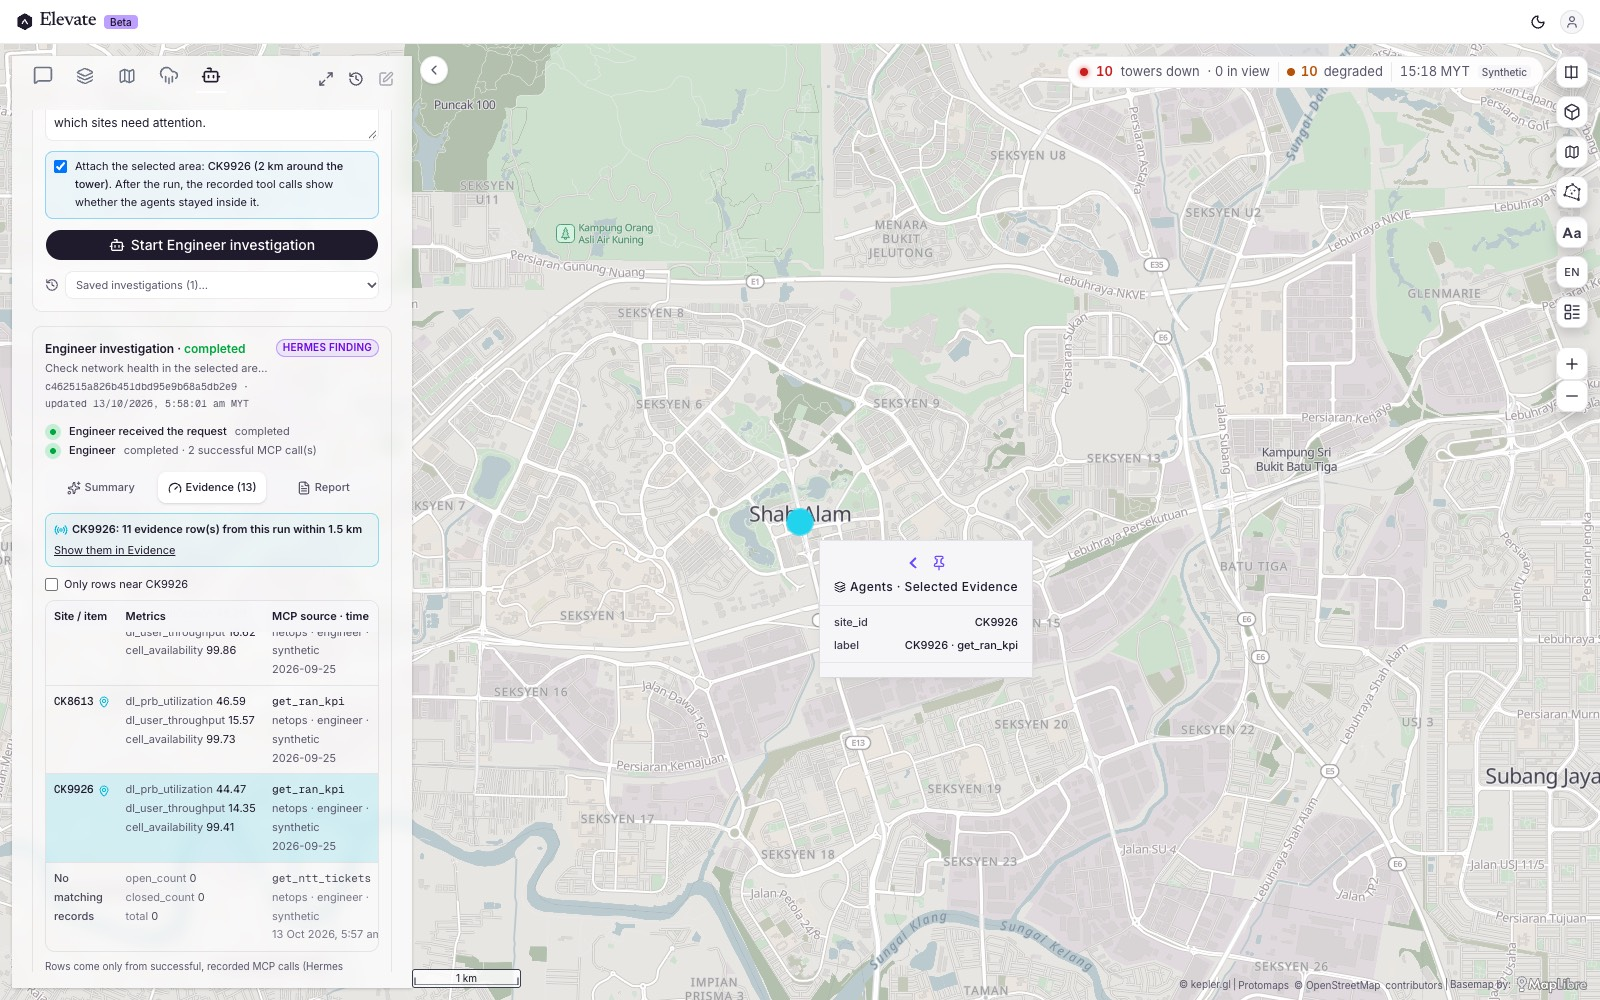
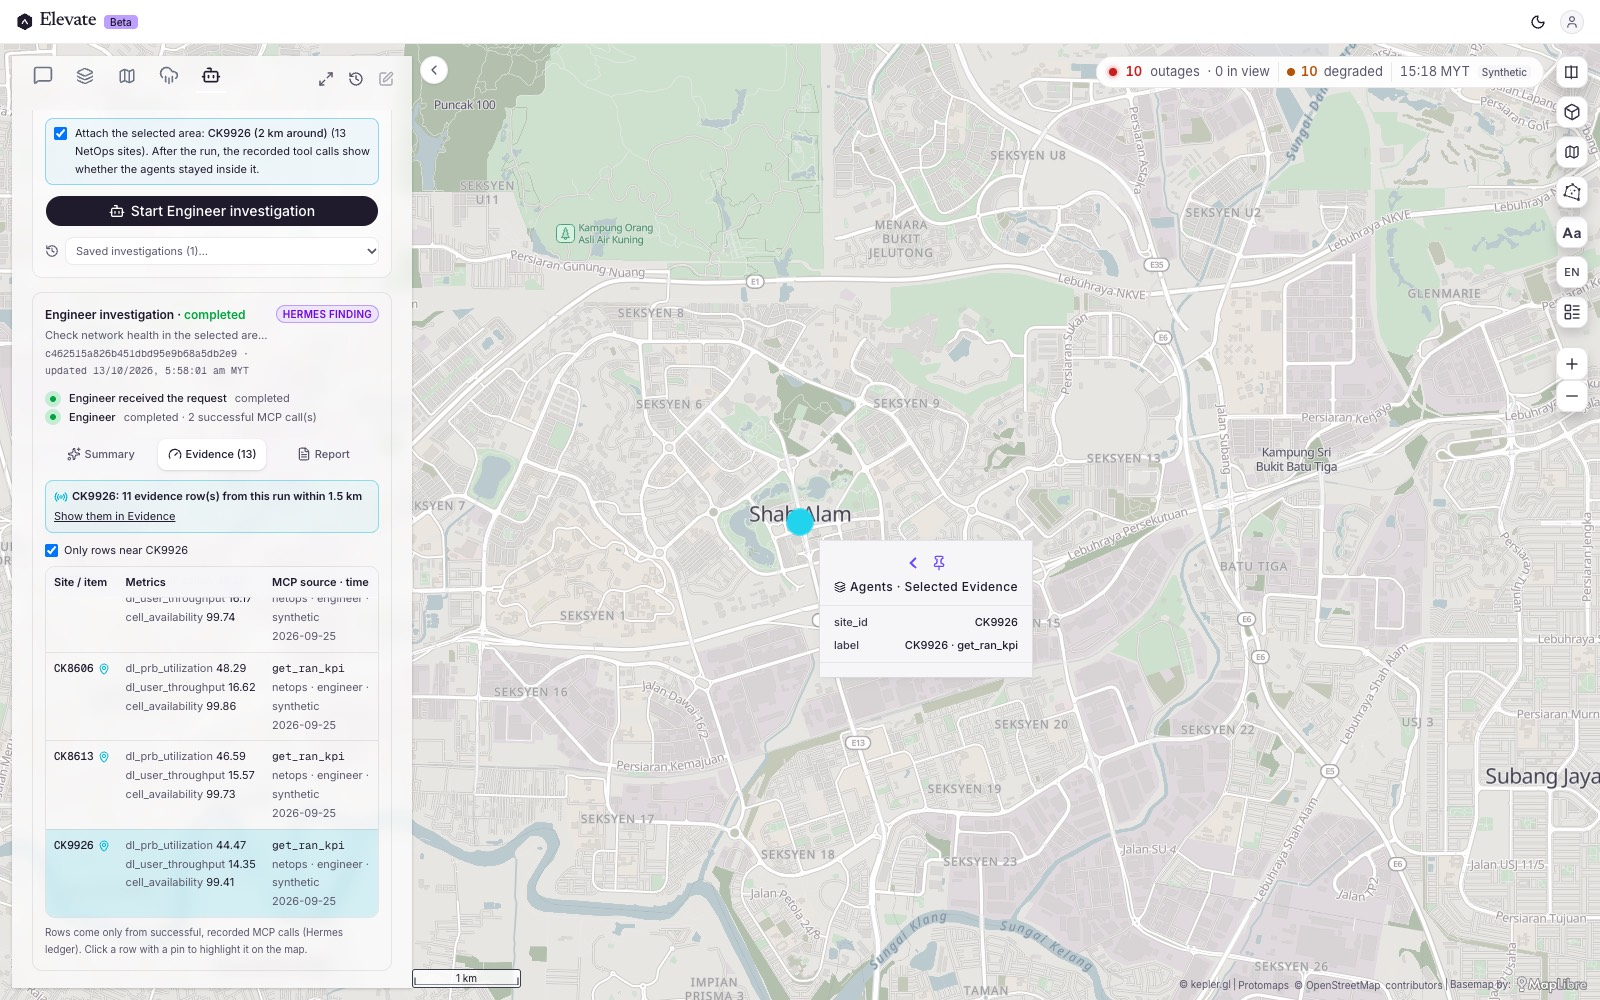
fix(order5.5): strict area-scope check and empty evidence filter
- A radius search now counts as inside the selected area only when its whole circle
  lies inside it (circle: centre distance + radius <= area radius; rectangle/polygon:
  24 sampled edge points inside the shape). Searches centred inside but reaching past
  the area are reported as "reaching beyond", so the verified Shah Alam run is now
  "partly respected" (1 strictly inside, 1 reaching beyond) instead of "respected".
- Reopened rectangle investigations keep their exact shape; reopened polygons (bbox
  only) cannot prove a radius search is contained.
- The Evidence tab no longer filters to "near this tower" when no rows are near it,
  which had hidden every row after a tower click.
- Docs: strict scope rules, corrected results, MacBook runbook (NetOps without
  --search on 8010, Hermes env), refreshed screenshots incl. Orders 6/7 and fallbacks.

Changed region(s): [[0.0312, 0.093, 0.25, 0.992], [0.6562, 0.062, 0.75, 0.093]]

diff --git a/frontend/src/lib/hermes/workspace.ts b/frontend/src/lib/hermes/workspace.ts
@@ -91,13 +91,15 @@ export function withAreaContext(prompt: string, area: MapArea | null, siteIds: s
 }
 
 /** The area a saved investigation was asked about, read back from its prompt (null when it had none). */
-export function areaFromPrompt(prompt: string): (Omit<MapArea, "ring"> & { siteIds: string[] }) | null {
+export function areaFromPrompt(prompt: string): (MapArea & { siteIds: string[] }) | null {
   const at = prompt.indexOf(AREA_MARKER);
   if (at < 0) return null;
   const line = prompt.slice(at).split("\n")[1];
   try {
     const c = JSON.parse(line) as { kind: MapArea["kind"]; label: string; center: LatLng; radius_km: number; bbox: MapArea["bbox"]; site_ids: string[] };
-    return { kind: c.kind, label: c.label, center: c.center, radiusKm: c.radius_km, bbox: c.bbox, siteIds: c.site_ids ?? [] };
+    const [w, so, e, n] = c.bbox;
+    const ring = c.kind === "rectangle" ? [[w, so], [e, so], [e, n], [w, n], [w, so]] : undefined;
+    return { kind: c.kind, label: c.label, center: c.center, radiusKm: c.radius_km, bbox: c.bbox, siteIds: c.site_ids ?? [], ...(ring ? { ring } : {}) };
   } catch {
     return null;
   }
@@ -119,7 +121,8 @@ export type JobLike = {
   geojson?: { features: { geometry: { coordinates: [number, number] }; properties: Record<string, unknown> }[] } | null;
   warnings?: string[]; feasibility?: unknown;
 };
-export type CallScope = "in_area" | "outside" | "unscoped";
+/** in_area: provably inside; beyond: centred inside but the search circle reaches past the area; outside; unscoped: no location. */
+export type CallScope = "in_area" | "beyond" | "outside" | "unscoped";
 
 const num = (v: unknown) => (typeof v === "number" ? v : typeof v === "string" && v.trim() !== "" ? Number(v) : NaN);
 function idList(v: unknown): string[] {
@@ -136,15 +139,27 @@ export function callScope(call: ToolCall, area: Pick<MapArea, "center" | "radius
   const lat = num(a.lat ?? a.latitude ?? a.current_lat), lng = num(a.lng ?? a.lon ?? a.longitude ?? a.current_long);
   if (Number.isFinite(lat) && Number.isFinite(lng)) {
     const radius = num(a.radius_km ?? a.radius);
-    const inside = area.ring ? inRing(area.ring, lat, lng) : haversineKm(area.center, { lat, lng }) <= area.radiusKm;
-    return inside && (!Number.isFinite(radius) || radius <= area.radiusKm + 1) ? "in_area" : "outside";
+    const r = Number.isFinite(radius) && radius > 0 ? radius : 0;
+    if (area.ring) {
+      if (!inRing(area.ring, lat, lng)) return "outside";
+      // the whole search circle must lie in the shape: sample its edge (24 points)
+      const dLat = r / 111, dLng = r / (111 * Math.cos((lat * Math.PI) / 180));
+      const edgeInside = Array.from({ length: 24 }, (_, i) => (2 * Math.PI * i) / 24)
+        .every((t) => inRing(area.ring!, lat + dLat * Math.sin(t), lng + dLng * Math.cos(t)));
+      return edgeInside ? "in_area" : "beyond";
+    }
+    const d = haversineKm(area.center, { lat, lng });
+    if (d > area.radiusKm) return "outside";
+    // a polygon known only by its bounding box cannot prove a radius search stays inside it
+    if (area.kind === "polygon" && r > 0) return "beyond";
+    return d + r <= area.radiusKm + 1e-9 ? "in_area" : "beyond";
   }
   return "unscoped";
 }
 
 export type Adherence = {
   verdict: "respected" | "partly respected" | "not area-scoped" | "no tool calls";
-  inArea: number; outside: number; unscoped: number;
+  inArea: number; beyond: number; outside: number; unscoped: number;
   calls: { agent: string; tool: string; scope: CallScope }[];
 };
 
@@ -154,9 +169,9 @@ export function areaAdherence(job: JobLike, area: Pick<MapArea, "center" | "radi
   const calls = job.tasks.flatMap((t) => (t.tool_calls ?? []).filter((c) => c.ok === true && c.tool !== "delegate_specialist")
     .map((c) => ({ agent: t.agent_id, tool: c.tool, scope: callScope(c, area, ids) })));
   const count = (s: CallScope) => calls.filter((c) => c.scope === s).length;
-  const inArea = count("in_area"), outside = count("outside"), unscoped = count("unscoped");
+  const inArea = count("in_area"), beyond = count("beyond"), outside = count("outside"), unscoped = count("unscoped");
   const verdict = !calls.length ? "no tool calls" : inArea === calls.length ? "respected" : inArea > 0 ? "partly respected" : "not area-scoped";
-  return { verdict, inArea, outside, unscoped, calls };
+  return { verdict, inArea, beyond, outside, unscoped, calls };
 }
 
 // ---------------------------------------------------------------- evidence rows

diff --git a/frontend/src/components/map/panels/agents-workspace.tsx b/frontend/src/components/map/panels/agents-workspace.tsx
@@ -191,7 +191,7 @@ export function AdherenceBanner({ adherence, areaLabel, pending }: { adherence: 
   if (!adherence) return null;
   const text = {
     respected: `Every successful tool call stayed inside “${areaLabel}”.`,
-    "partly respected": `Only ${adherence.inArea} of ${adherence.calls.length} tool calls stayed inside “${areaLabel}”; the rest queried ${adherence.unscoped ? "the wider network" : "outside the area"}. Findings are not limited to the area.`,
+    "partly respected": `${adherence.inArea} of ${adherence.calls.length} tool calls stayed strictly inside “${areaLabel}”.${adherence.beyond ? ` ${adherence.beyond} radius search(es) were centred inside but reached beyond the area.` : ""}${adherence.outside ? ` ${adherence.outside} queried outside it.` : ""}${adherence.unscoped ? ` ${adherence.unscoped} used no location (wider network).` : ""} Findings are not strictly limited to the area.`,
     "not area-scoped": `The agents' tool calls did not filter by “${areaLabel}”. Do not read the findings as an analysis of this area.`,
     "no tool calls": `No successful tool calls were recorded, so nothing about “${areaLabel}” was analysed.`,
   }[adherence.verdict];
@@ -212,7 +212,7 @@ export function InvestigationResults({ job, digest, rows, adherence, areaLabel, 
 }) {
   const [tab, setTab] = useState<Tab>("summary");
   const [onlyFocus, setOnlyFocus] = useState(true);
-  const shown = focusRows && onlyFocus ? focusRows : rows;
+  const shown = focusRows?.length && onlyFocus ? focusRows : rows; // an empty filter would hide every row
   const tabs: { id: Tab; label: string; icon: typeof FileText }[] = [
     { id: "summary", label: "Summary", icon: Sparkles }, { id: "evidence", label: `Evidence (${rows.length})`, icon: Gauge }, { id: "report", label: "Report", icon: FileText },
   ];
@@ -263,7 +263,7 @@ export function InvestigationResults({ job, digest, rows, adherence, areaLabel, 
 
       {tab === "evidence" ? (
         <div className="space-y-1.5">
-          {focusRows ? (
+          {focusRows?.length ? (
             <label className="flex items-center gap-1.5 text-[11px]"><input type="checkbox" checked={onlyFocus} onChange={(e) => setOnlyFocus(e.target.checked)} />Only rows near {focusName}</label>
           ) : null}
           {shown.length ? (
@@ -308,7 +308,7 @@ export function InvestigationResults({ job, digest, rows, adherence, areaLabel, 
               <li>Agents: {digest.agents.map((a) => AGENT_META[a as HermesAgentId]?.label ?? a).join(", ")} (local Hermes profiles, persistent memory).</li>
               <li>Tools that returned data: {digest.tools.join(", ") || "none"}.</li>
               <li>Sources: {sources.map((s) => `${s.service}/${s.tool}${s.synthetic ? " (synthetic)" : ""}`).join("; ") || "none"}.</li>
-              <li>Area: {areaLabel ? `${areaLabel}; scope ${adherence?.verdict ?? "—"} (${adherence?.inArea ?? 0} in area, ${adherence?.outside ?? 0} outside, ${adherence?.unscoped ?? 0} unscoped calls).` : "none attached."}</li>
+              <li>Area: {areaLabel ? `${areaLabel}; scope ${adherence?.verdict ?? "—"} (${adherence?.inArea ?? 0} strictly inside, ${adherence?.beyond ?? 0} reaching beyond, ${adherence?.outside ?? 0} outside, ${adherence?.unscoped ?? 0} unscoped calls).` : "none attached."}</li>
               <li>Investigation {job.investigation_id} · started {myt(job.created_at)} · updated {myt(job.updated_at)} MYT.</li>
             </ul>
           </section>

diff --git a/docs/ORDER5_5_MAP_AWARE_WORKSPACE.md b/docs/ORDER5_5_MAP_AWARE_WORKSPACE.md
@@ -51,17 +51,20 @@ Scope rule: query only these Site_IDs (site_id) or radius queries centred inside
 ```
 
 **The UI never claims that an agent analysed the area just because the area was sent.** After the run, `areaAdherence` checks the arguments of every successful tool call recorded in the ledger:
-- **In the area:** the call named only the area's Site_IDs (`site_id`, `site`, `site_ids`), or it used a centre inside the area with a radius no larger than the area's radius plus 1 km.
-- **Outside:** the call named a site outside the area, or searched a wider circle.
+- **Strictly inside:** the call named only the area's Site_IDs (`site_id`, `site`, `site_ids`), or it made a radius search whose whole circle lies inside the area:
+  - for a circle or tower: centre distance plus search radius is no more than the area radius;
+  - for a rectangle or polygon: 24 points on the search circle's edge all fall inside the shape.
+- **Reaches beyond:** the radius search is centred inside the area, but its circle extends past the area. A reopened polygon (known only by its bounding box) is also counted here, because it cannot prove containment.
+- **Outside:** the call named a site outside the area, or its centre lies outside.
 - **Unscoped:** the call used no location at all, for example a region or national query.
 
 The verdicts are:
 
 | Verdict | Meaning |
 |---|---|
-| `respected` | Every call stayed in the area. |
-| `partly respected` | Some calls stayed in the area; the banner says the findings are not limited to it. |
-| `not area-scoped` | No call stayed in the area; the banner says not to read the findings as an analysis of it. |
+| `respected` | Every call was strictly inside the area. |
+| `partly respected` | Some calls were strictly inside. The banner counts the calls that reached beyond, went outside or were unscoped, and says the findings are not strictly limited to the area. |
+| `not area-scoped` | No call was strictly inside; the banner says not to read the findings as an analysis of the area. |
 | `no tool calls` | Nothing was recorded, so nothing was analysed. |
 
 ## Map ↔ pane
@@ -117,15 +120,18 @@ The frontend reaches the existing services:
 | `npm run test:hermes` (9 new workspace tests; Order 4, 6 and 7 tests included) | PASS: 25 |
 | `npm run test:weather`; `boundary-context.test.mjs` | PASS: 8; PASS: 2 |
 | `npm run lint`, `npx tsc --noEmit`, `npm run build` | PASS (0 lint problems, 0 type errors) |
-| Real Hermes run with an area attached: Engineer, `c462515a826b451dbd95e9b68a5db2e9`, drawn rectangle over Shah Alam (12 NetOps sites) | **completed**. 2 successful MCP calls: `get_ran_kpi` on exactly the 12 Site_IDs, and `get_ntt_tickets` within 3 km of a point inside the area. Area scope: **respected**. |
+| Real Hermes run with an area attached: Engineer, `c462515a826b451dbd95e9b68a5db2e9`, drawn rectangle over Shah Alam (12 NetOps sites, about 2 km from its centre to the corners) | **completed**. 2 successful MCP calls:<br>- `get_ran_kpi` on exactly the 12 Site_IDs: strictly inside.<br>- `get_ntt_tickets` with a 3 km radius centred inside the area: its circle reaches beyond the rectangle.<br>Area scope: **partly respected** (1 strictly inside, 1 reaching beyond). An earlier version of the check called this run "respected"; this PR corrects it. |
 | Risk check on that run | medium: 1 of 36 KPI values breaches a NetOps threshold (CK9926 availability 99.41% < 99.5%, which the agent's prose called "a rounding artifact") |
 | Earlier runs, recorded honestly in the UI | `b9a21672…` failed (`gemma4` did not call tools); `a50969a1…` failed (NetOps in `--search` mode exposed no tools to Hermes; the UI said "no tool calls, nothing analysed"); `14dcf23f…` failed (task timeout after 2 area-scoped calls; the UI showed the 13 recorded rows and "did not complete") |
 | Opportunity Graph | graph-ranked cards in 0.8 s; Hypothesis validation `bd214774…` **completed** with Hermes-computed verdicts (screenshot 08) |
 | Browser: draw a rectangle → area card filtered to the shape (12 sites; 11 congested, 8 critical cells) | PASS (screenshot 02) |
 | Browser: click a tower → area becomes 2 km around it (GEOR-4130) | PASS (screenshot 07) |
-| Browser: Summary, Evidence and Report tabs; reopen a saved investigation from the Hermes ledger | PASS (screenshots 03, 04) |
+| Browser: Summary, Evidence and Report tabs; reopen a saved investigation from the Hermes ledger (the reopened rectangle keeps its exact shape) | PASS (screenshots 03, 04) |
 | Browser: click evidence row CK9926 → cyan ring and fly-to on its site (12 of 13 rows have a location; the 13th is the "0 NTT tickets" summary) | PASS (screenshot 05) |
-| Browser: pin the CK9926 point on the map → pane shows "11 evidence rows from this run within 1.5 km" | PASS (screenshot 06) |
+| Browser: pin the CK9926 point on the map → pane shows "11 evidence rows from this run within 1.5 km" | PASS (screenshot 06; the pin click targets the highlight ring at the map centre after the fly-to, because Kepler draws markers on a canvas without DOM selectors) |
+| Browser: area card on a server without `get_business_demand_signals` (your current 8126) | honest fallback: "Demand signals unavailable: … restart it on the latest main"; the other blocks still load (screenshot 10) |
+| Browser, after merging main: Order 4 "Show last validated run" (`bd214774…`, from the ledger), Order 6 Decision Time Machine and Order 7 commercial applications | render with their synthetic, simulated or assumption labels (screenshots 08, 11, 12); no new LLM run was started |
+| Clicking a tower with no evidence nearby | the Evidence tab still lists every row (the "near this tower" filter applies only when there are rows near it) |
 | No stale area data for a new selection | Results are keyed by the area. A reopened run reports against its own recorded area, read from its prompt, not the current selection. |
 | No duplicate overlays | The highlight and findings layers replace their own dataset each time. |
 
@@ -144,3 +150,44 @@ The frontend reaches the existing services:
 - **Demand signals** need the MLPredict server from main after PR #13. An older running server shows "not available on the running mlpredict server".
 - **Reopened polygon runs** are checked against their recorded centre and radius (the prompt carries the bounding box, not the full ring).
 - **Synthetic data everywhere:** NetOps, intel, ML, opportunity and commercial figures are labelled synthetic, ML predicted or graph-ranked in the UI.
+
+## Running it on your MacBook
+
+These steps start from the normal `run_all.py` stack and change no code. Run them in this order.
+
+1. **Menara MCPs, NetOps and the frontend:**
+   ```bash
+   cd backend && python run_all.py
+   ```
+   Restart this after merging, so MLPredict on 8126 has `get_business_demand_signals`. If LightGBM fails on the host because `libomp` is missing, run MLPredict in Docker instead (`backend/mlpredict-mcp/compose.yaml`).
+2. **NetOps for Hermes, without `--search`, on port 8010.** This is temporary; your normal 8000 server stays as it is. It uses `backend/netops-mcp/data` (copy `netops.duckdb`, `places_my.parquet` and `boundaries_my.parquet` there if this checkout has none):
+   ```bash
+   cd backend/netops-mcp && uv run python -m netops_mcp.server --http --host 0.0.0.0 --port 8010
+   ```
+3. **Opportunity Graph on 8127**, needed for Orders 4, 6 and 7:
+   ```bash
+   cd backend && uv run python -m opportunity_mcp --transport streamable-http --port 8127
+   ```
+4. **Hermes.** Pull the model once with `ollama pull qwen3.5:9b`, then:
+   ```bash
+   cd hermes-multi-agent && NETOPS_MCP_URL=http://host.docker.internal:8010/mcp HERMES_TASK_TIMEOUT_SECONDS=900 \
+     HERMES_INVESTIGATION_TIMEOUT_SECONDS=1500 docker compose -p ai-elevate-hermes up -d --force-recreate
+   ```
+5. **Check:** `curl -s localhost:8011/api/agents`. Orchestrator, Business, Engineer and Hypothesis should be available. Forecast stays unavailable until Weather ML runs on 8002.
+
+## Screenshots (`docs/order5_5/`)
+
+| File | Shows |
+|---|---|
+| 01 | Five-agent roster |
+| 02 | Drawn rectangle → area card |
+| 03 | Summary, area scope partly respected |
+| 04 | Report |
+| 05 | Evidence → map highlight |
+| 06 | Map → pane for CK9926 |
+| 07 | Tower click → area |
+| 08 | Agent-validated opportunities |
+| 09 | Graph-ranked opportunities |
+| 10 | Area card fallback labels |
+| 11 | Order 6 Decision Time Machine |
+| 12 | Order 7 commercial applications |
